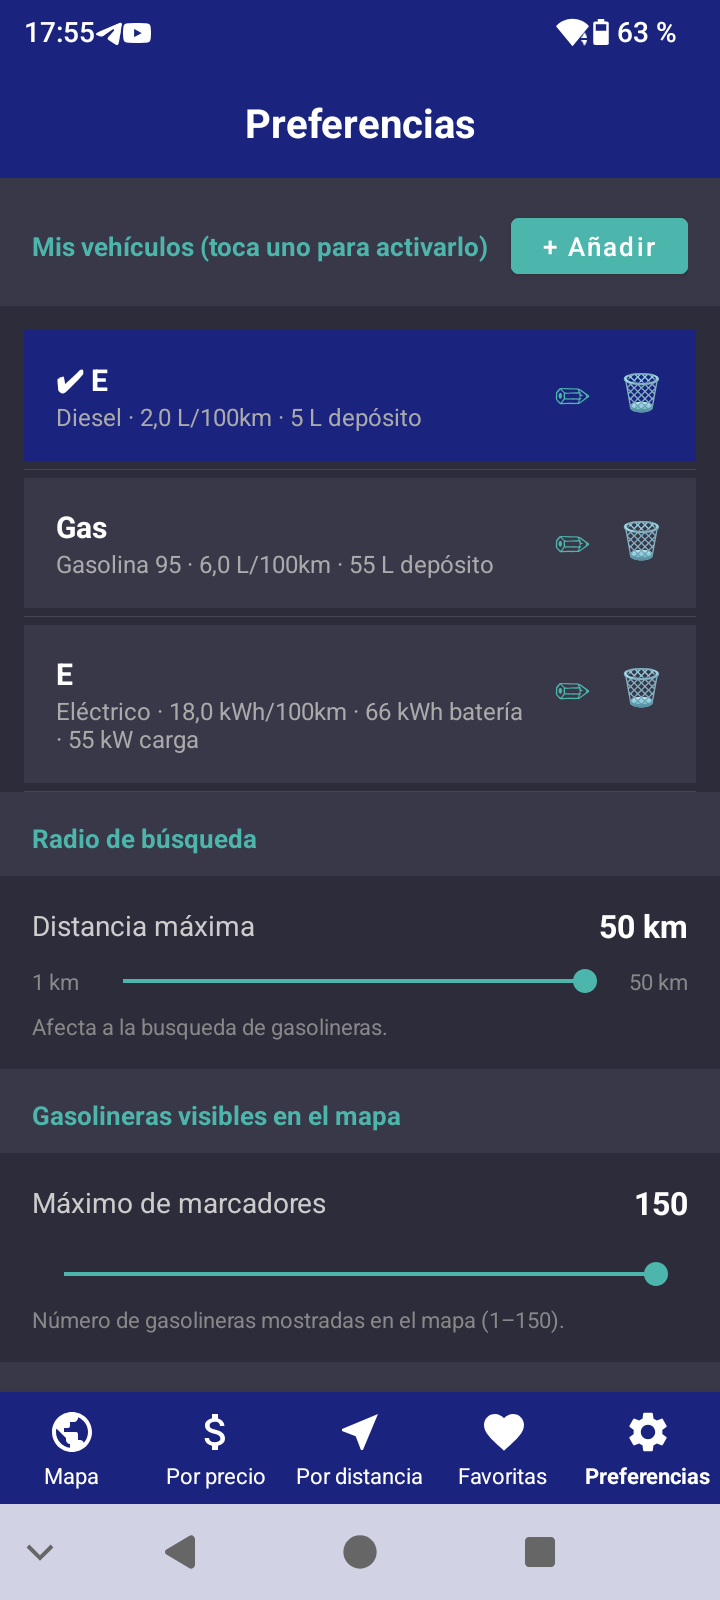
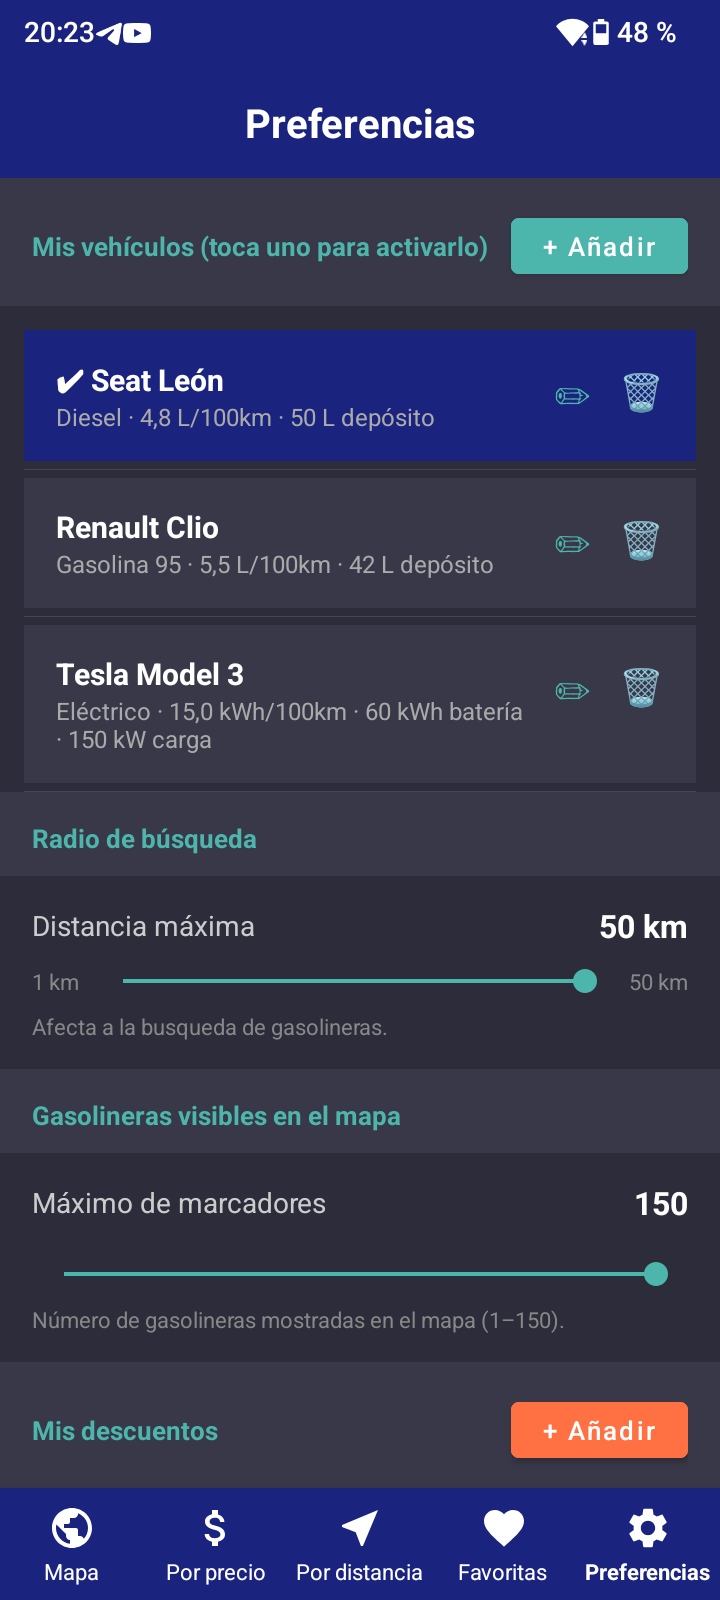
docs: añadir capturas de promociones, opiniones y modo eléctrico
- Vehículos realistas en la captura de Preferencias (Seat León, Renault Clio,
  Tesla Model 3).
- Nuevas capturas: promociones por marca, opiniones (Google Maps), mapa de
  electrolineras por potencia y detalle con tiempo de recarga estimado.
- README: galería reorganizada en 3 bloques (combustible / ahorro y comunidad /
  eléctrico) y características ampliadas (tiempo de recarga y opiniones).

diff --git a/README.md b/README.md
@@ -16,17 +16,29 @@ App Android nativa (Java) que muestra en un mapa las estaciones de servicio de E
 
 ## 📱 Capturas
 
+**Combustible** — mapa de precios, listas ordenadas, detalle con el ahorro real e histórico:
+
 <p align="center">
-  <img src="docs/img/mapa.png"         width="200" alt="Mapa con precios"/>&nbsp;
-  <img src="docs/img/por-precio.png"   width="200" alt="Estaciones por precio"/>&nbsp;
-  <img src="docs/img/detalle.png"      width="200" alt="Detalle de estación"/>
-</p>
-<p align="center">
-  <img src="docs/img/historico.png"    width="200" alt="Histórico de precios"/>&nbsp;
-  <img src="docs/img/preferencias.png" width="200" alt="Preferencias y vehículos"/>
+  <img src="docs/img/mapa.png"       width="185" alt="Mapa con precios"/>&nbsp;
+  <img src="docs/img/por-precio.png" width="185" alt="Estaciones por precio"/>&nbsp;
+  <img src="docs/img/detalle.png"    width="185" alt="Detalle de estación"/>&nbsp;
+  <img src="docs/img/historico.png"  width="185" alt="Histórico de precios"/>
 </p>
 
-<p align="center"><sub>Mapa por precio · Lista ordenada · Detalle con ahorro · Histórico (30 días) · Vehículos y radio</sub></p>
+**Ahorro y comunidad** — vehículos y radio, promociones por marca y opiniones (Google Maps):
+
+<p align="center">
+  <img src="docs/img/preferencias.png" width="185" alt="Preferencias y vehículos"/>&nbsp;
+  <img src="docs/img/promociones.png"  width="185" alt="Promociones por marca"/>&nbsp;
+  <img src="docs/img/opiniones.png"    width="185" alt="Opiniones de la estación"/>
+</p>
+
+**Modo eléctrico** — electrolineras por potencia y tiempo de recarga estimado para tu coche:
+
+<p align="center">
+  <img src="docs/img/mapa-electrico.png"    width="185" alt="Mapa de electrolineras por potencia"/>&nbsp;
+  <img src="docs/img/detalle-electrico.png" width="185" alt="Detalle de electrolinera con tiempo de recarga"/>
+</p>
 
 ---
 
@@ -36,10 +48,10 @@ App Android nativa (Java) que muestra en un mapa las estaciones de servicio de E
 - 🔎 **Búsqueda por localidad** (geocodificación con Nominatim) y **filtro por marca**.
 - 💲 **Ordenación por precio** o 📍 **por distancia**, con el precio ya **descontado** por marca.
 - ⛽ **Perfiles de vehículo**: combustible, consumo, depósito (y potencia de carga para eléctricos). La app calcula el **coste real de llenado** y el **coste de llegada** hasta la estación.
-- 🔋 **Coches eléctricos**: muestra electrolineras (datos de la DGT) y las ordena por potencia.
+- 🔋 **Modo eléctrico**: muestra electrolineras (datos de la DGT) ordenadas por potencia y **estima el tiempo de recarga** (20 % → 80 %) según la potencia de tu coche y la de la estación.
 - 🔔 **Alertas de precio**: notifica en segundo plano cuando una estación baja del umbral que fijes (WorkManager).
 - 📈 **Histórico de precios** por estación y combustible (7 / 15 / 30 días) con gráficas.
-- ⭐ **Favoritas** y 🎁 **promociones** por marca.
+- ⭐ **Favoritas**, 🎁 **promociones** por marca y ⭐ **opiniones** (valoración de Google Maps).
 - 🌙 Datos **cacheados en local**: la app funciona aunque falle la red.
 
 ---
